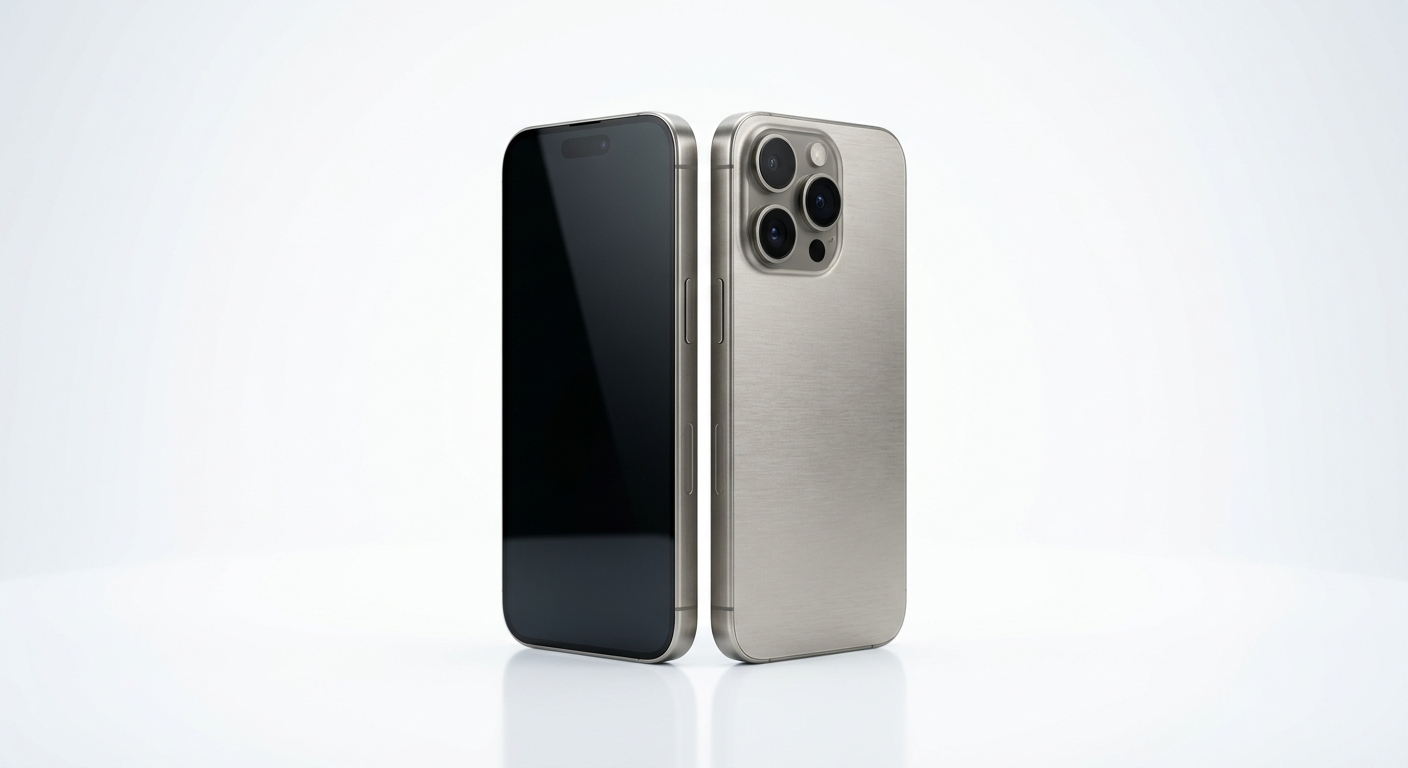
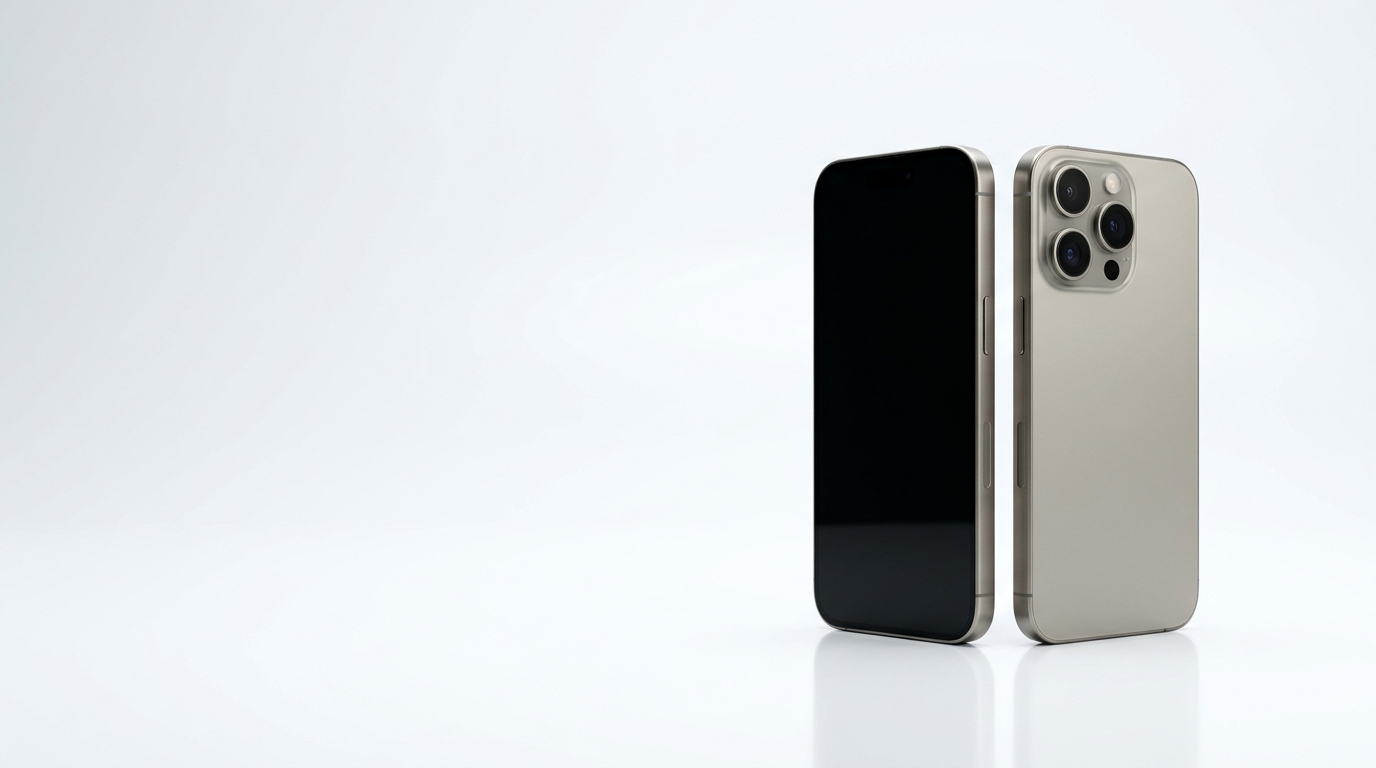
Hero: full-bleed background image with iPhones fully visible (contain fit + overlay)

diff --git a/styles.css b/styles.css
@@ -496,13 +496,35 @@ table.data tbody tr:last-child td { border-bottom: none; }
   background: linear-gradient(165deg,#fdfdfe 0%,#f4f6f8 55%,#eef1f4 100%);
   border-bottom: 1px solid var(--border);
   overflow: hidden;
+  min-height: 560px;
+  display: flex;
+  align-items: center;
+}
+/* full-bleed background image of the hero */
+.store-hero-bgimg {
+  position: absolute; inset: 0;
+  width: 100%; height: 100%;
+  object-fit: contain;
+  object-position: right center;
+  z-index: 0;
+}
+@media (max-width: 899px){
+  /* on narrow screens push image to bottom so it sits under the copy */
+  .store-hero-bgimg { object-position: center bottom; opacity: .9; }
+}
+/* readability overlay: fade page bg from the left over the image */
+.store-hero-overlay {
+  position: absolute; inset: 0; z-index: 1;
+  background: linear-gradient(90deg, #fbfcfd 0%, rgba(251,252,253,.92) 30%, rgba(251,252,253,.55) 50%, rgba(251,252,253,0) 70%);
 }
 .store-hero-grid {
-  display: grid; grid-template-columns: 1fr; gap: 24px;
-  align-items: center; padding: 48px 24px 56px;
+  position: relative; z-index: 2;
+  display: grid; grid-template-columns: 1fr;
+  align-items: center; padding: 56px 24px 64px; width: 100%;
 }
 @media (min-width: 900px){
-  .store-hero-grid { grid-template-columns: 1fr 1.05fr; padding: 64px 24px 72px; }
+  .store-hero { min-height: 620px; }
+  .store-hero-grid { grid-template-columns: minmax(0,560px) 1fr; padding: 72px 24px 80px; }
 }
 .store-hero-title { font-size: 40px; line-height: 1.04; font-weight: 800; letter-spacing: -.03em; margin: 0 0 16px; }
 @media (min-width: 768px){ .store-hero-title { font-size: 56px; } }
@@ -526,17 +548,11 @@ table.data tbody tr:last-child td { border-bottom: none; }
 .hb-ico { color: var(--primary); display: flex; }
 .hb-h { font-weight: 700; font-size: 13px; }
 .hb-s { color: var(--muted-foreground); font-size: 11.5px; }
-.store-hero-img { display: flex; justify-content: center; align-items: center; }
-.store-hero-img img {
-  width: 100%; max-width: 620px; height: auto; object-fit: contain;
-  mix-blend-mode: multiply;
-  -webkit-mask-image: radial-gradient(120% 110% at 50% 45%, #000 62%, transparent 92%);
-  mask-image: radial-gradient(120% 110% at 50% 45%, #000 62%, transparent 92%);
+/* dark mode hero overlay for text legibility over bright image */
+.dark .store-hero-overlay {
+  background: linear-gradient(90deg, #0b0d10 0%, rgba(11,13,16,.92) 30%, rgba(11,13,16,.55) 50%, rgba(11,13,16,0) 72%);
 }
-.dark .store-hero-img img {
-  mix-blend-mode: normal;
-  border-radius: var(--radius-lg);
-}
+.dark .store-hero-bgimg { opacity: .9; }
 .store-dots { display: flex; justify-content: center; gap: 8px; padding-bottom: 20px; }
 .store-dots .dot { width: 7px; height: 7px; border-radius: 999px; background: rgba(10,10,10,.2); }
 .store-dots .dot.active { width: 22px; background: var(--primary); }

diff --git a/app.js b/app.js
@@ -394,6 +394,8 @@ route('/', function () {
 
     <!-- HERO -->
     <section class="store-hero">
+      <img class="store-hero-bgimg" src="assets/hero-iphones.jpg" alt="iPhone activation" loading="eager">
+      <div class="store-hero-overlay"></div>
       <div class="container-x store-hero-grid">
         <div class="store-hero-copy fade-in">
           <h1 class="store-hero-title">Activate &amp; Unlock<br>Any <span>iPhone</span></h1>
@@ -406,9 +408,6 @@ route('/', function () {
             ${[['shield','100% Original','IMEI-based methods'],['checkCircle','Garansi Resmi','No-fix-no-fee'],['zap','Proses Cepat','1\u201324 jam selesai']].map(b=>`
               <div class="hb"><span class="hb-ico">${I[b[0]]?I[b[0]](18):I.shield(18)}</span><div><div class="hb-h">${b[0]==='shield'?'100% Original':b[0]==='checkCircle'?'Garansi Resmi':'Proses Cepat'}</div><div class="hb-s">${b[2]}</div></div></div>`).join('')}
           </div>
-        </div>
-        <div class="store-hero-img fade-in">
-          <img src="assets/hero-iphones.jpg" alt="iPhone activation" loading="eager">
         </div>
       </div>
       <div class="store-dots"><span class="dot active"></span><span class="dot"></span><span class="dot"></span><span class="dot"></span></div>